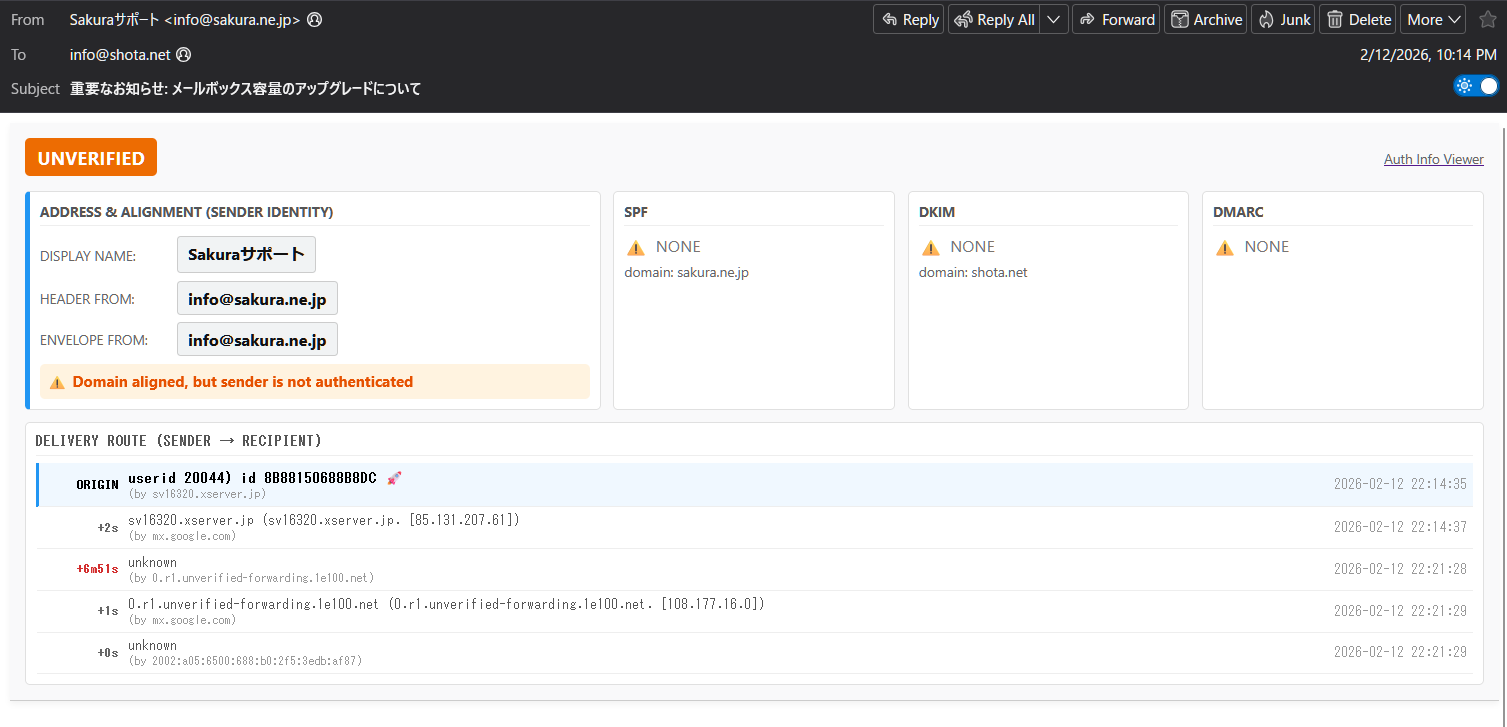
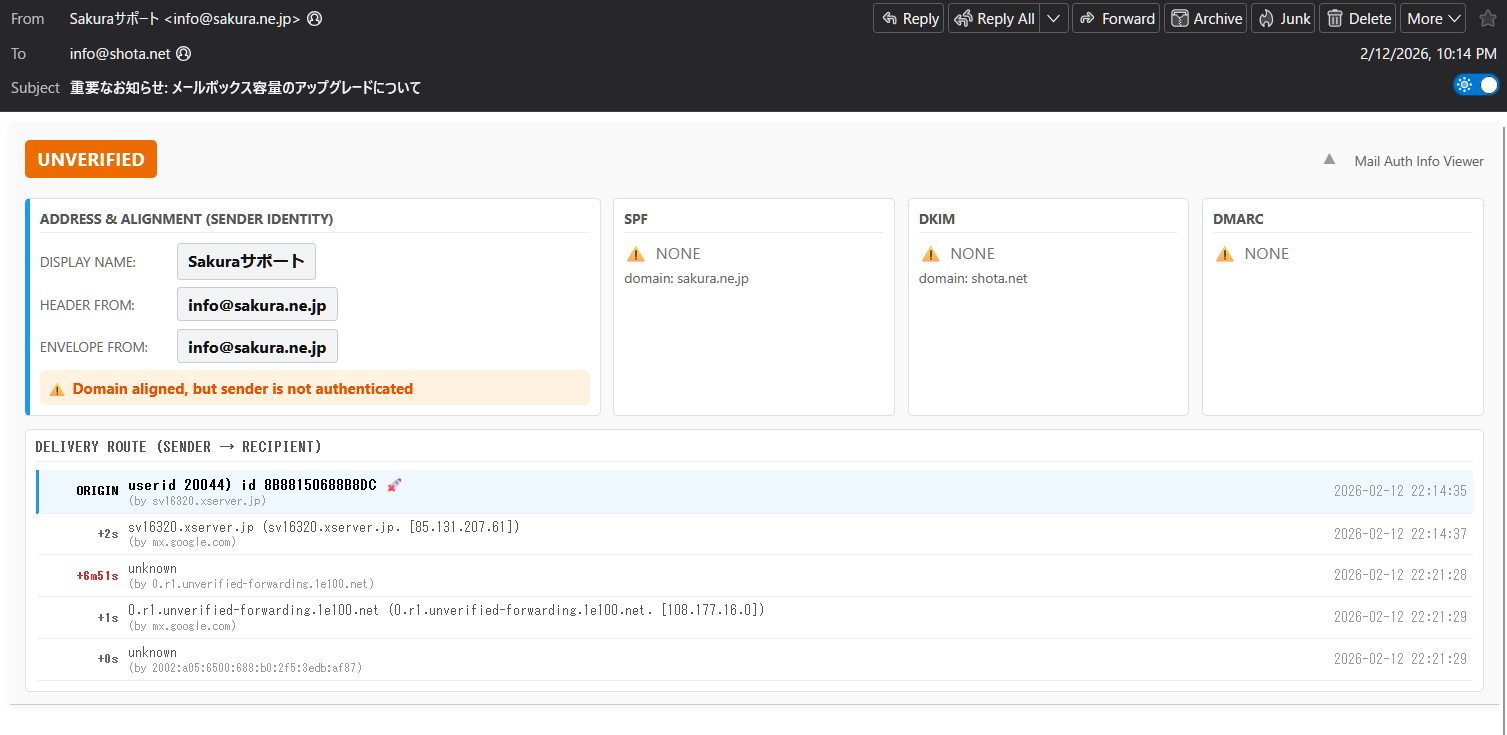
アコーディオン化

diff --git a/messagedisplay.js b/messagedisplay.js
@@ -224,13 +224,21 @@
         font-family: "Segoe UI", Meiryo, sans-serif;
         background-color: #f9f9fa;
         border-bottom: 1px solid #ccc;
-        padding: 12px;
+        padding: 10px 12px;
         margin-bottom: 15px;
         color: #333;
         font-size: 13px;
         box-shadow: 0 2px 4px rgba(0,0,0,0.05);
       }
-      .maiv-header { display: flex; align-items: center; margin-bottom: 12px; }
+      
+      /* アコーディオン(開閉)用のヘッダースタイル */
+      .maiv-header { 
+        display: flex; align-items: center; 
+        cursor: pointer; user-select: none;
+        padding: 4px 0; transition: opacity 0.2s;
+      }
+      .maiv-header:hover { opacity: 0.8; }
+      
       .maiv-badge { font-weight: bold; padding: 6px 10px; border-radius: 4px; margin-right: 8px; color: white; font-size: 14px; letter-spacing: 0.5px;}
       .maiv-badge.secure { background-color: #2e7d32; }
       .maiv-badge.warning { background-color: #ed6c02; }
@@ -239,6 +247,29 @@
       /* バッジの右側に表示する大きなドメインテキスト用のスタイル */
       .maiv-header-domain { font-size: 17px; font-weight: bold; color: #222; }
       .maiv-header-mismatch { font-size: 13px; color: #e65100; font-weight: bold; margin-left: 6px; }
+
+      /* 開閉トグルアイコン */
+      .maiv-toggle-icon { margin-left: 15px; margin-right: 15px; color: #999; font-size: 12px; transition: transform 0.35s cubic-bezier(0.4, 0, 0.2, 1); }
+      .maiv-toggle-icon.expanded { transform: rotate(180deg); }
+      .maiv-link { color: #666; text-decoration: none; }
+      .maiv-link:hover { text-decoration: underline; color: #2196f3; }
+
+      /* 開閉アニメーション(スライドダウン)用のラッパー */
+      .maiv-body-wrapper {
+        display: grid;
+        grid-template-rows: 0fr;
+        transition: grid-template-rows 0.4s cubic-bezier(0.4, 0, 0.2, 1);
+      }
+      .maiv-body-wrapper.expanded {
+        grid-template-rows: 1fr;
+      }
+      .maiv-body-inner {
+        overflow: hidden;
+      }
+      /* コンテンツの実態。開いたときの余白を設定 */
+      .maiv-body-content {
+        padding-top: 12px;
+      }
 
       /* minmaxを150pxに下げて、横一列に並びやすく調整 */
       .maiv-grid { display: grid; grid-template-columns: repeat(auto-fit, minmax(150px, 1fr)); gap: 10px; margin-bottom: 10px; }
@@ -306,12 +337,16 @@
       headerDomainText = `${escapeHTML(headerFromDomain)} <span class="maiv-header-mismatch">(DOMAIN MISMATCH)</span>`;
     }
 
+    // 「安全(secure)」でない場合は、自動で展開(展開用のアニメーションをトリガー)するフラグ
+    const shouldAutoExpand = (badgeClass !== "secure");
+
     const headerHTML = `
-      <div class="maiv-header">
+      <div class="maiv-header" id="maiv-header-toggle" title="Click to toggle details">
         <span class="maiv-badge ${badgeClass}">${badgeText}</span>
         <span class="maiv-header-domain">${headerDomainText}</span>
         <span style="flex-grow:1;"></span>
-        <a href="https://github.com/shotacure/MailAuthInfoViewer" target="_blank"><small style="color:#666;">Auth Info Viewer</small></a>
+        <span class="maiv-toggle-icon" id="maiv-toggle-icon">▼</span>
+        <a href="https://github.com/shotacure/MailAuthInfoViewer" class="maiv-link" target="_blank"><small>Mail Auth Info Viewer</small></a>
       </div>
     `;
 
@@ -457,16 +492,22 @@
     `;
 
     // 最終的なUIコンポーネント群をコンテナに組み込み
-    // 1つの maiv-grid 内に ADDRESS(span 2), SPF, DKIM, DMARC の順で並べる
+    // アニメーション用に、詳細部分をマウント時は一旦閉じた状態（クラスなし）のラッパーで囲む
     const markup = `
       ${headerHTML}
-      <div class="maiv-grid">
-        ${addressHTML}
-        ${createAuthCard("SPF", authResults.spf)}
-        ${createAuthCard("DKIM", authResults.dkim)}
-        ${createAuthCard("DMARC", authResults.dmarc)}
+      <div class="maiv-body-wrapper" id="maiv-body-wrapper">
+        <div class="maiv-body-inner">
+          <div class="maiv-body-content">
+            <div class="maiv-grid">
+              ${addressHTML}
+              ${createAuthCard("SPF", authResults.spf)}
+              ${createAuthCard("DKIM", authResults.dkim)}
+              ${createAuthCard("DMARC", authResults.dmarc)}
+            </div>
+            ${routeHTML}
+          </div>
+        </div>
       </div>
-      ${routeHTML}
     `;
 
     // DOMParserでパースして挿入
@@ -477,6 +518,27 @@
     const existing = document.querySelector(".maiv-container");
     if (existing) existing.remove();
     document.body.insertAdjacentElement("afterbegin", container);
+
+    // --- インタラクション (アコーディオンの開閉) の設定 ---
+    const headerToggle = container.querySelector('#maiv-header-toggle');
+    const bodyWrapper = container.querySelector('#maiv-body-wrapper');
+    const toggleIcon = container.querySelector('#maiv-toggle-icon');
+
+    // クリックによる手動開閉
+    headerToggle.addEventListener('click', (e) => {
+      // リンク部分(Mail Auth Info Viewer)をクリックした時は開閉しないようにする
+      if (e.target.closest('.maiv-link')) return;
+      bodyWrapper.classList.toggle('expanded');
+      toggleIcon.classList.toggle('expanded');
+    });
+
+    // 「安全」以外の場合は、描画完了の直後にクラスを付与して「スルッと開く」アニメーションを発火させる
+    if (shouldAutoExpand) {
+      setTimeout(() => {
+        bodyWrapper.classList.add('expanded');
+        toggleIcon.classList.add('expanded');
+      }, 50); // DOMレンダリング直後にトリガーするためのわずかな遅延
+    }
 
   } catch (e) {
     console.error("MailAuthInfoViewer Error:", e);
